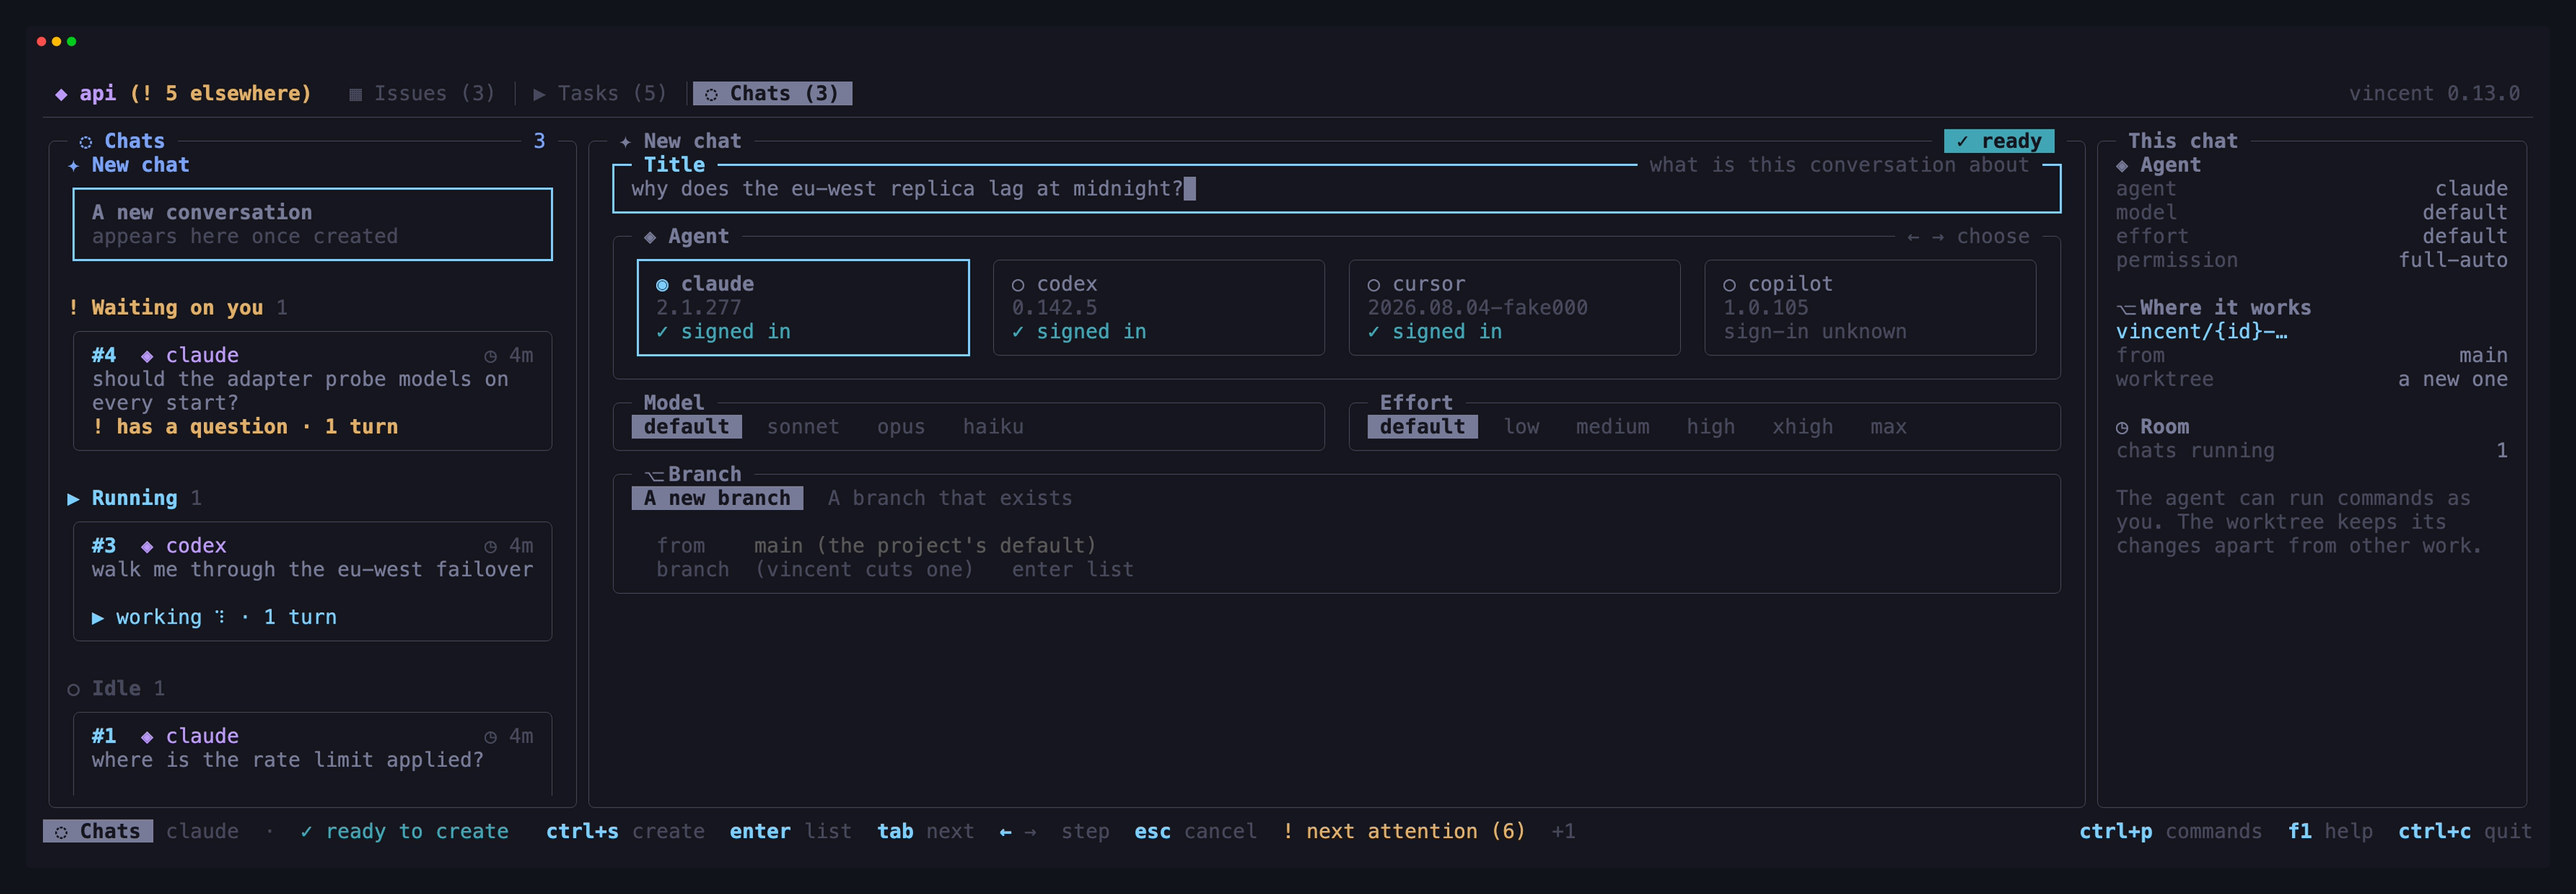
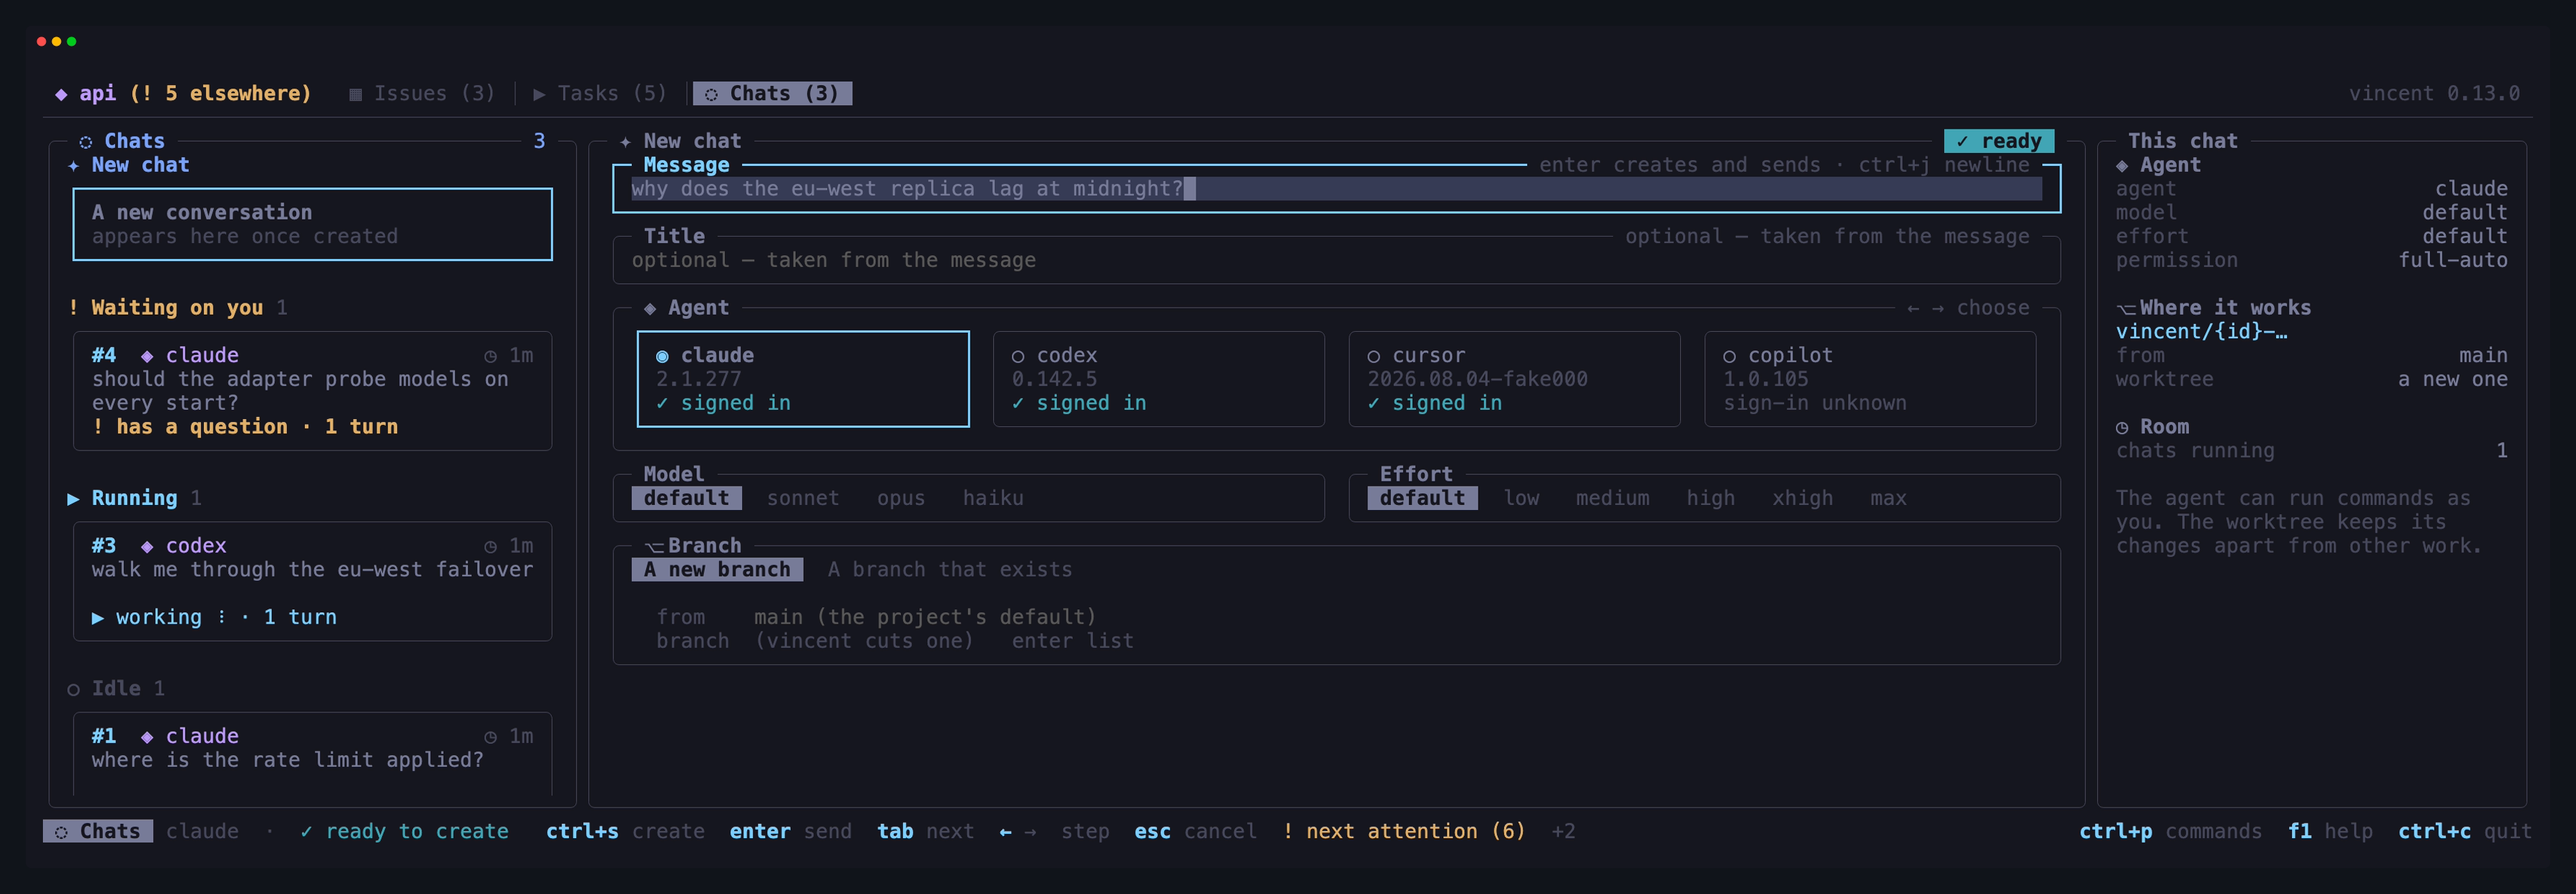
docs(chat): re-capture the new-chat form and chats board (task 156.6)

diff --git a/docs/tasks/161-chat-first-message-and-rename.md b/docs/tasks/161-chat-first-message-and-rename.md
@@ -1,6 +1,6 @@
 # 161 — Start a chat from its first message, rename chats, choose the agent for a chat on a task or issue
 
-**Status:** 🔄 in progress (5/6) · **Opened:** 2026-11-20
+**Status:** ✅ done (6/6) · **Opened:** 2026-11-20
 
 Part of the chat UX epic (#1009), tier 1; closes issue #1016. Starting a chat
 used to take a title first and a message second — two requests from the CLI,
@@ -31,7 +31,7 @@ Conventions for this file are in [the tasks README](README.md).
 - [x] **161.5** Docs and gate: §5.5, §13.2, §13.3 and §15 amendments, the API,
   CLI and key references, the chats guide, `CHANGELOG.md`, and a
   create-with-message and a rename step in `m14`. ✓ 2026-11-20
-- [ ] **161.6** Re-capture the new-chat form and chats board screenshots with
+- [x] **161.6** Re-capture the new-chat form and chats board screenshots with
   `scripts/screenshots.sh` (VHS): the form gained a message row.
 
 ## Decisions

diff --git a/docs/tasks/README.md b/docs/tasks/README.md
@@ -174,7 +174,7 @@ the living engineering specification records implementation contracts.
 | [158](158-chat-search.md) | Search every chat's title, prompts and answers, live and archived, and open a result on its turn | ✅ done (5/5) |
 | [159](159-chat-export.md) | Export a chat as Markdown, HTML or JSON: `GET /v1/chats/{id}/export`, `vincent chat export`, the TUI's export form | ✅ done (4/4) |
 | [160](160-chat-search-and-navigation.md) | Search inside a chat, jump between prompts, expand one tool call | 🔄 in progress (2/3) |
-| [161](161-chat-first-message-and-rename.md) | Start a chat from its first message, rename chats, and choose the agent for a chat on a task or issue | 🔄 in progress (5/6) |
+| [161](161-chat-first-message-and-rename.md) | Start a chat from its first message, rename chats, and choose the agent for a chat on a task or issue | ✅ done (6/6) |
 
 ## How to add and update a task document
 
